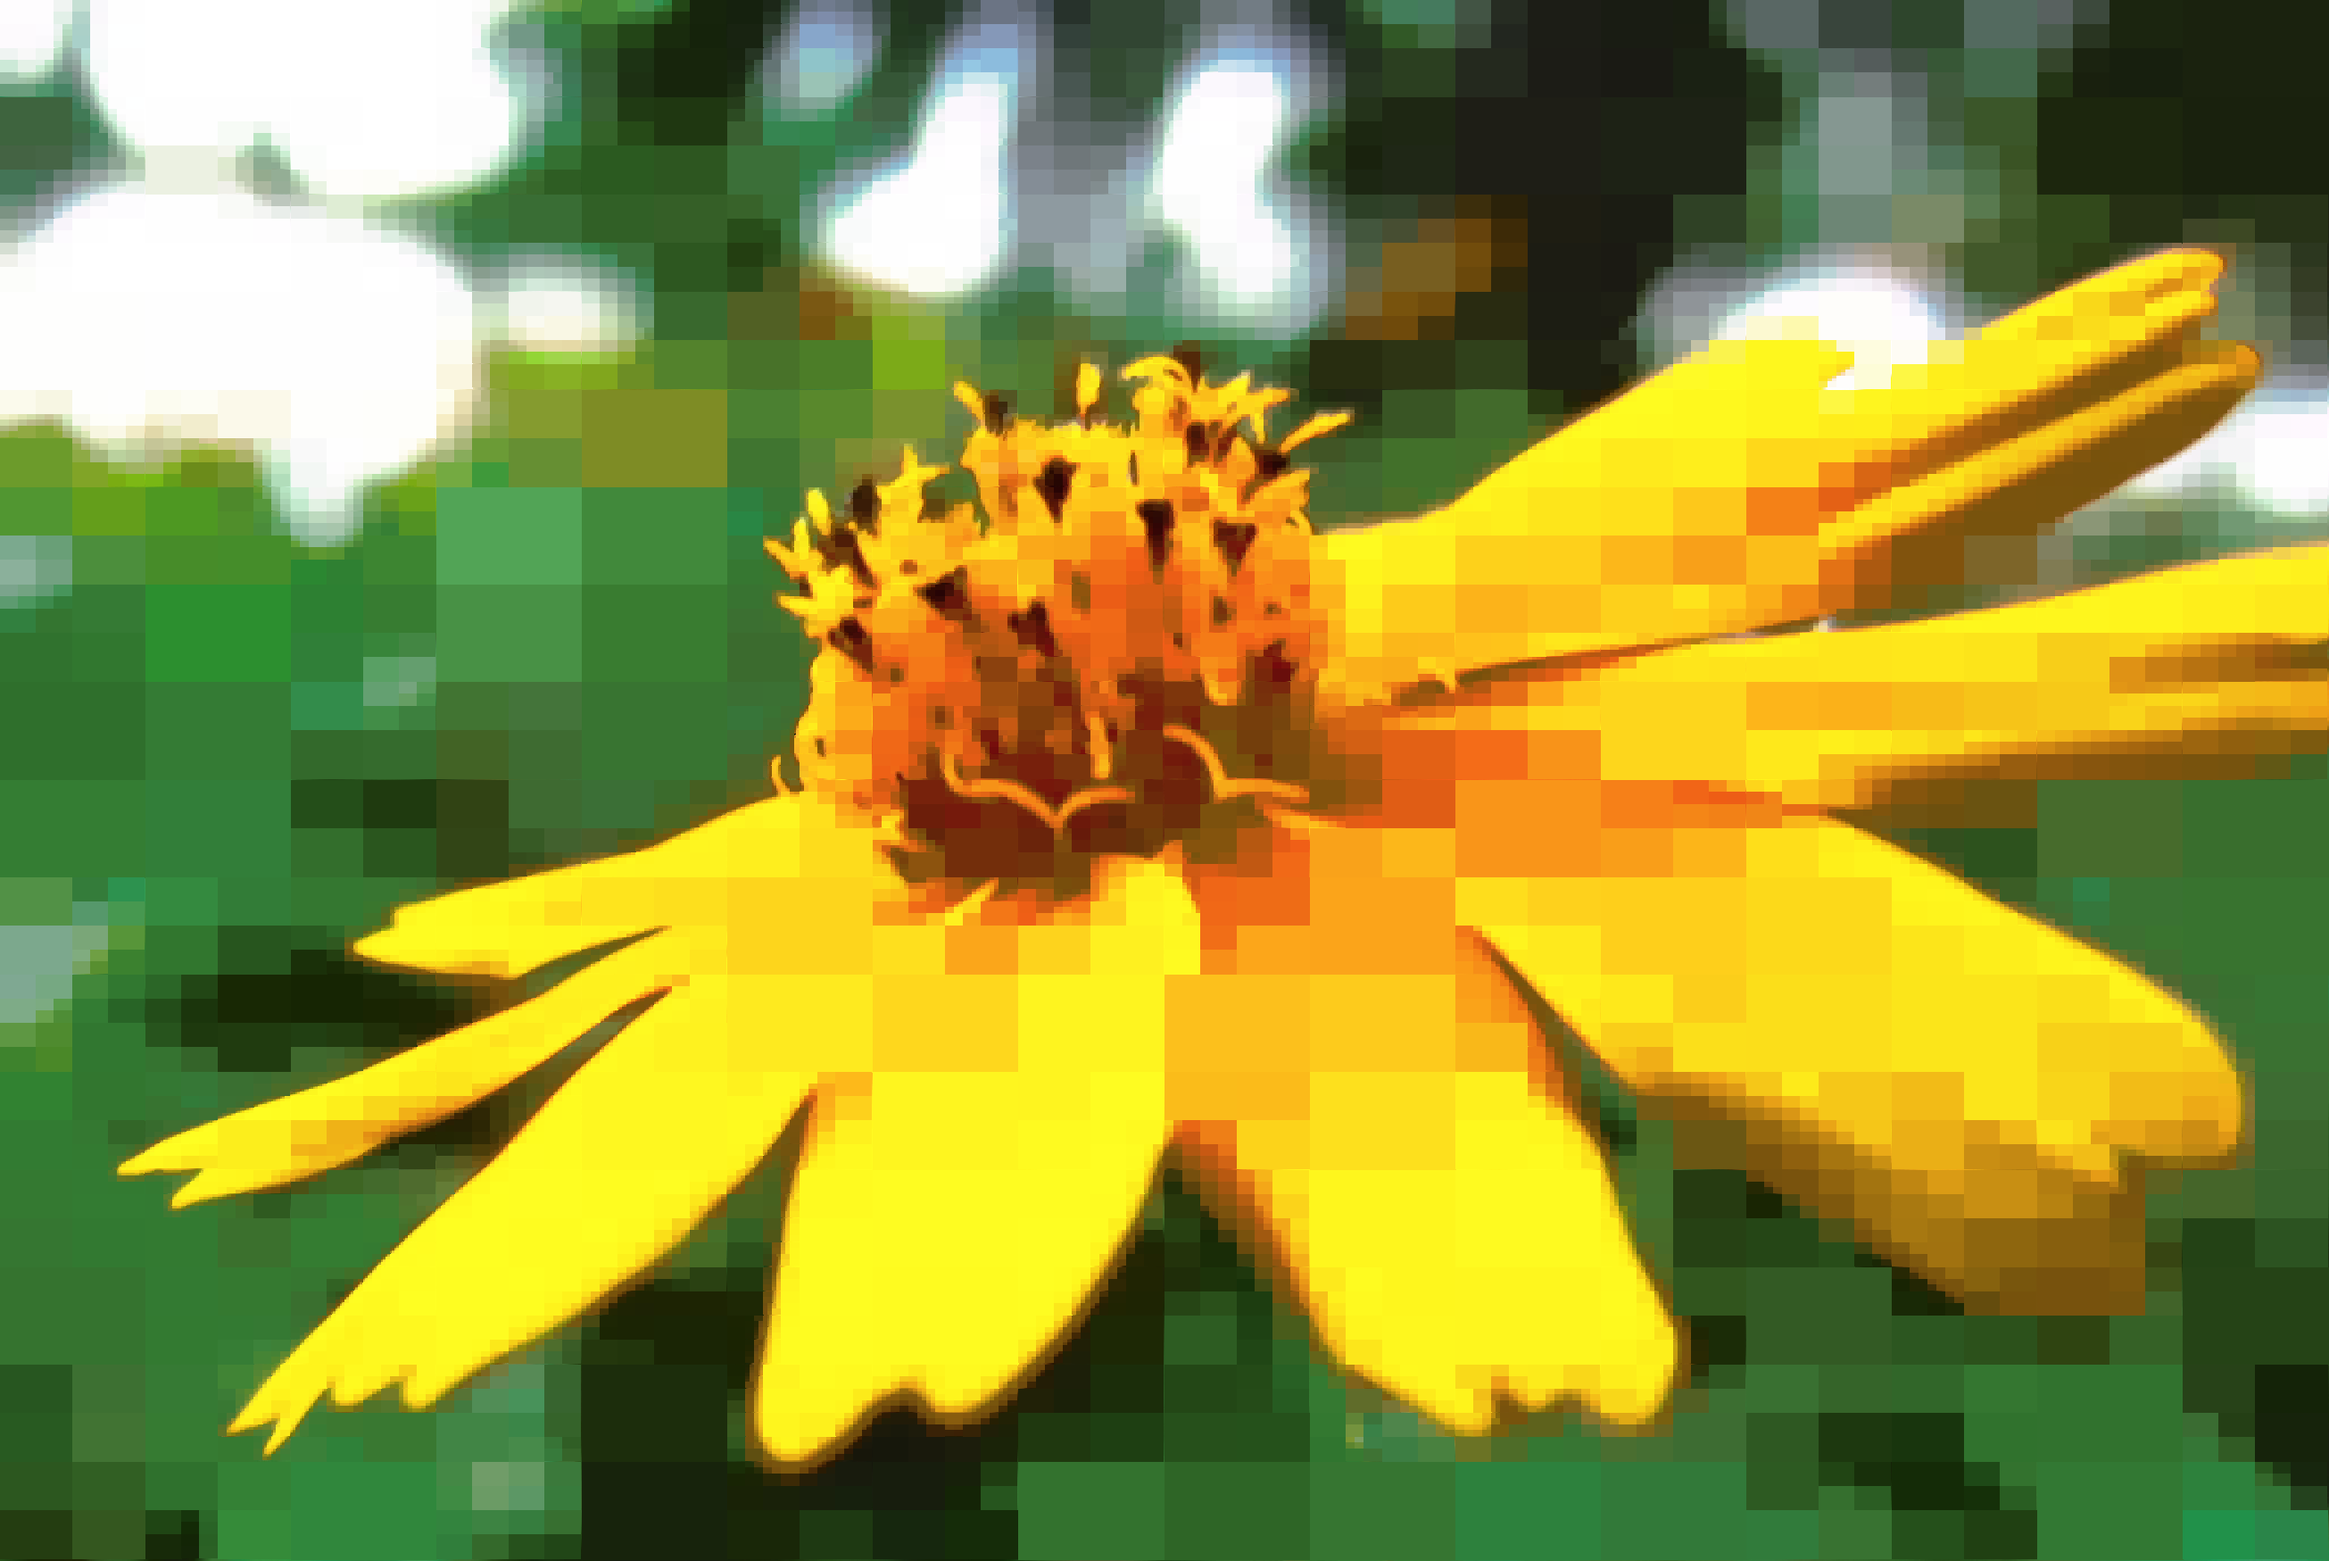
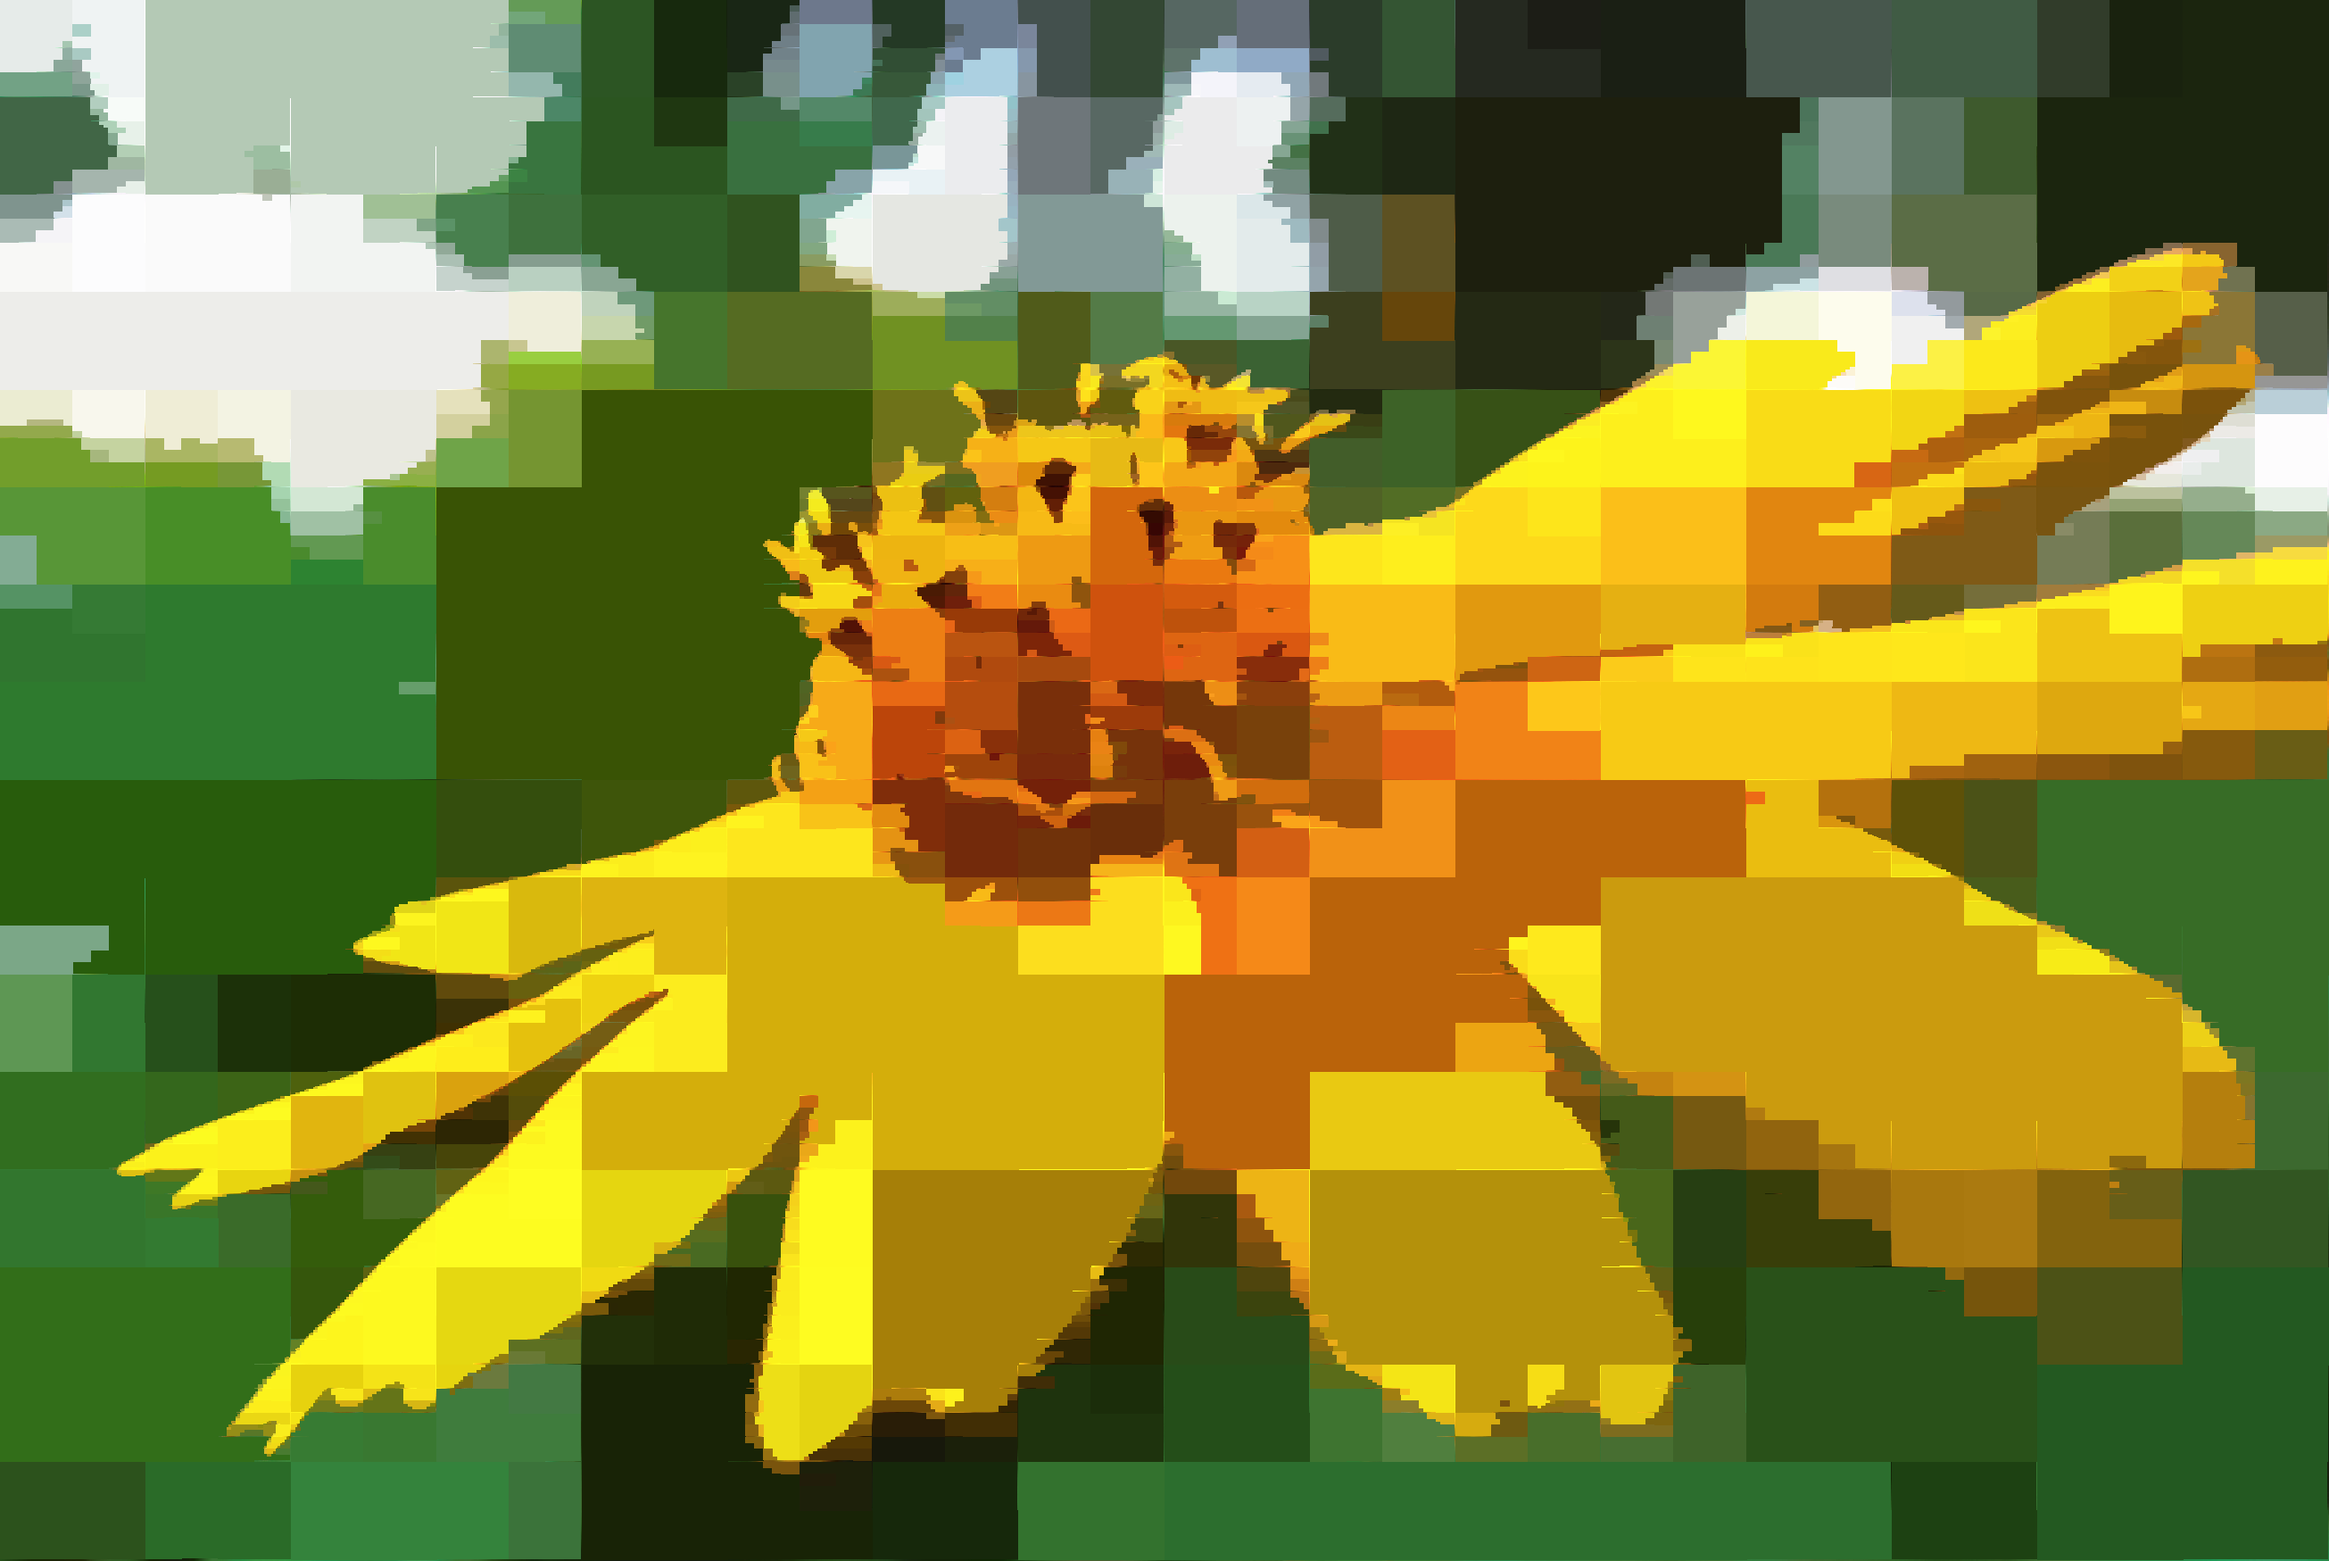
added merging

diff --git a/src/group.c b/src/group.c
@@ -1,0 +1,195 @@
+// Sachin Shah
+// March 17, 2020
+
+#include "image.h"
+#include "group.h"
+#include "utils.h"
+
+#include <png.h>
+#include <stdint.h>
+#include <stdio.h>
+#include <stdlib.h>
+#include <math.h>
+
+Element *add_element(Node *node, Element *last)
+{
+	Element *ptr = (Element *) calloc(1, sizeof(Element));
+	check_null(ptr, "calloc failed to find space for an Element");
+
+	ptr->x = node->x;
+	ptr->y = node->y;
+	ptr->width = node->width;
+	ptr->height = node->height;
+	ptr->red = node->red;
+	ptr->green = node->green;
+	ptr->blue = node->blue;
+	ptr->next = NULL;
+
+	if (last != NULL) last->next = ptr;
+
+	return ptr;
+}
+
+Element *tree_to_list(Element *first, Node *root)
+{
+	Element *last = first;
+
+	if (root->top_left == NULL)
+	{
+		if (first == NULL)
+		{
+			first = add_element(root, NULL);
+			return first;
+		}
+
+		while (last != NULL && last->next != NULL) last = last->next;
+		add_element(root, last);
+	}
+	else
+	{
+		first = tree_to_list(first, root->top_left);
+		first = tree_to_list(first, root->top_right);
+		first = tree_to_list(first, root->bottom_left);
+		first = tree_to_list(first, root->bottom_right);
+	}
+
+	return first;
+}
+
+int8_t touching(Element *one, Element *two)
+{
+	//int8_t first = (one->x <= two->x && two->x <= one->x + one->width) || (one->x <= two->x + two->width && two->x + two->width <= one->x + one->width);
+	//return first && (one->y == two->y || one->y + one->height == two->y);
+
+	if (one->y == two->y || one->y == two->height + two->y)
+	{
+		return ((one->x >= two->x && one->x <= two->x + two->width) || (two->x >= one->x && two->x <= one->x + one->width));
+	}
+	if (one->x == two->x || one->x == two->width + two->x)
+	{
+		return ((one->y >= two->y && one->y <= two->y + two->height) || (two->y >= one->y && two->y <= one->y + one->height));
+	}
+
+	return 0;
+
+	//return (one->x <= two->x && two->x <= one->x + one->width) || (one->x <= two->x + two->width && two->x + two->width <= one->x + one->width) && (one->y == two->y || one->y + one->height == two->y);
+	//return ((one->x <= two->x || one->y <= one->y) && (two->x <= one->x + one->width || two->y <= one->y + one->height));
+}
+
+uint32_t element_distance(Element *element, Group *group)
+{
+	Element *current = group->root;
+	int32_t rdiff, gdiff, bdiff;
+
+	rdiff = element->red - group->red;
+	gdiff = element->green - group->green;
+	bdiff = element->blue - group->blue;
+
+	rdiff *= rdiff;
+	gdiff *= gdiff;
+	bdiff *= bdiff;
+
+	while (current != NULL)
+	{
+		if (touching(current, element) || touching(element, current)) break;
+		current = current->next;
+	}
+
+	if (current == NULL) return MAX_DIST;
+
+	return sqrt(rdiff + gdiff + bdiff);
+}
+
+Group *add_group(Group *last, Element *node)
+{
+	Group *ptr = (Group *) calloc(1, sizeof(Group));
+	check_null(ptr, "calloc failed to find space for a Group");
+
+	ptr->red = node->red;
+	ptr->green = node->green;
+	ptr->blue = node->blue;
+	ptr->count = node->width * node->height;
+	if (ptr->count == 0) ptr->count = 1;
+	ptr->root = node;
+	node->next = NULL;
+	ptr->next = NULL;
+
+	if (last != NULL) last->next = ptr;
+
+	return ptr;
+}
+
+void add_element_to_group(Group *group, Element *node)
+{
+	Element *last = group->root;
+	uint32_t count = node->width * node->height;
+
+	while (last->next != NULL) last = last->next;
+
+	last->next = node;
+	node->next = NULL;
+
+	group->red *= group->count;
+	group->green *= group->count;
+	group->blue *= group->count;
+
+	group->red += (node->red * count);
+	group->green += (node->green * count);
+	group->blue += (node->blue * count);
+
+	group->count += count;
+	group->red /= group->count;
+	group->green /= group->count;
+	group->blue /= group->count;
+}
+
+Group *create_groups(Element *root, uint32_t tolerance)
+{
+	Element *current_element = root->next, *next_element;
+	Group *first_group, *last_group, *current_group = NULL;
+	first_group = last_group = add_group(NULL, root);
+
+	while (current_element != NULL)
+	{
+		current_group = first_group;
+
+		while (current_group != NULL)
+		{
+			if (element_distance(current_element, current_group) < tolerance) break;
+			current_group = current_group->next;
+		}
+
+		next_element = current_element->next;
+		if (current_group == NULL)
+		{
+			last_group = add_group(last_group, current_element);
+		}
+		else
+		{
+			add_element_to_group(current_group, current_element);
+		}
+
+		current_element = next_element;
+	}
+
+	return first_group;
+}
+
+void free_elements(Element *element)
+{
+	if (element != NULL)
+	{
+		free_elements(element->next);
+		free(element);
+	}
+}
+
+void free_groups(Group *group)
+{
+	if (group != NULL)
+	{
+		free_groups(group->next);
+		free_elements(group->root);
+		free(group);
+	}
+}

diff --git a/src/splitmerge.c b/src/splitmerge.c
@@ -5,6 +5,7 @@
 #include "block.h"
 #include "image.h"
 #include "node.h"
+#include "group.h"
 
 #include <stdint.h>
 #include <stdio.h>
@@ -43,12 +44,59 @@ void colorize(Image *img, Node *node)
 	}
 }
 
+void colorize_2(Image *img, Group *group)
+{
+	uint32_t x, y, upper_x, upper_y;
+
+	Element *element = group->root;
+
+	uint8_t red, green, blue;
+	red = random_255();
+	green = random_255();
+	blue = random_255();
+
+	while (element != NULL)
+	{
+		upper_x = element->x + element->width;
+		upper_y = element->y + element->height;
+
+		for (x = element->x; x <= upper_x; x++)
+		{
+			for (y = element->y; y <= upper_y; y++)
+			{
+				//set_rgb(img, x, y, red, green, blue);
+				set_rgb(img, x, y, group->red, group->green, group->blue);
+			}
+		}
+
+		element = element->next;
+	}
+}
+
+void merge(Image *img, Node *tree, uint32_t tolerance)
+{
+	Element *list = tree_to_list(NULL, tree), *temp;
+
+	Group *groups = create_groups(list, tolerance), *current_group = NULL;
+
+	current_group = groups;
+	while (current_group != NULL)
+	{
+		colorize_2(img, current_group);
+		current_group = current_group->next; 
+	}
+
+	free_groups(groups);
+}
 
 void segment(Image *img, uint32_t tolerance)
 {
+	printf("Splititng\n");
 	Node *root = create_tree(tolerance, img);
 
 	colorize(img, root);
+	printf("Merging\n");
+	merge(img, root, tolerance);
 
 	free_nodes(root);
 }

diff --git a/include/group.h b/include/group.h
@@ -1,0 +1,52 @@
+// Sachin Shah
+// March 16, 2020
+// Merge list
+
+#ifndef _GROUP_H
+#define _GROUP_H
+
+#include "image.h"
+#include "node.h"
+
+#include <png.h>
+#include <stdint.h>
+
+struct element
+{
+	uint32_t x;
+	uint32_t y;
+	uint32_t width;
+	uint32_t height;
+	uint8_t red;
+	uint8_t green;
+	uint8_t blue;
+	struct element *next;
+};
+
+typedef struct element Element;
+
+struct group
+{
+	uint32_t red;
+	uint32_t green;
+	uint32_t blue;
+	uint32_t count;
+	Element *root;
+	struct group *next;
+};
+
+typedef struct group Group;
+
+Element *add_element(Node *node, Element *last);
+Element *tree_to_list(Element *first, Node *root);
+
+uint32_t element_distance(Element *element, Group *group);
+
+Group *add_group(Group *last, Element *node);
+Group *create_groups(Element *root, uint32_t tolerance);
+
+void free_elements(Element *elm);
+void free_groups(Group *group);
+
+
+#endif
